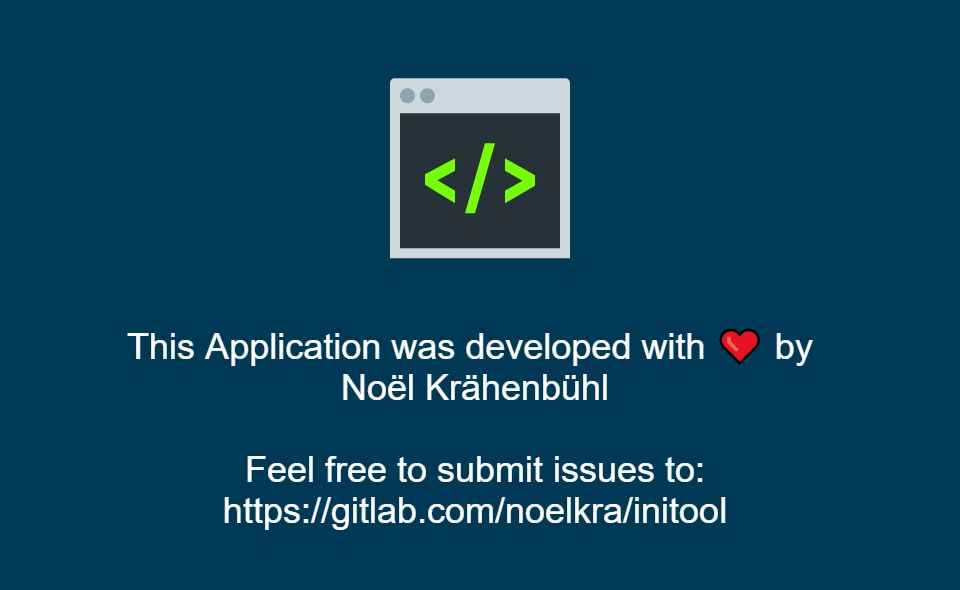
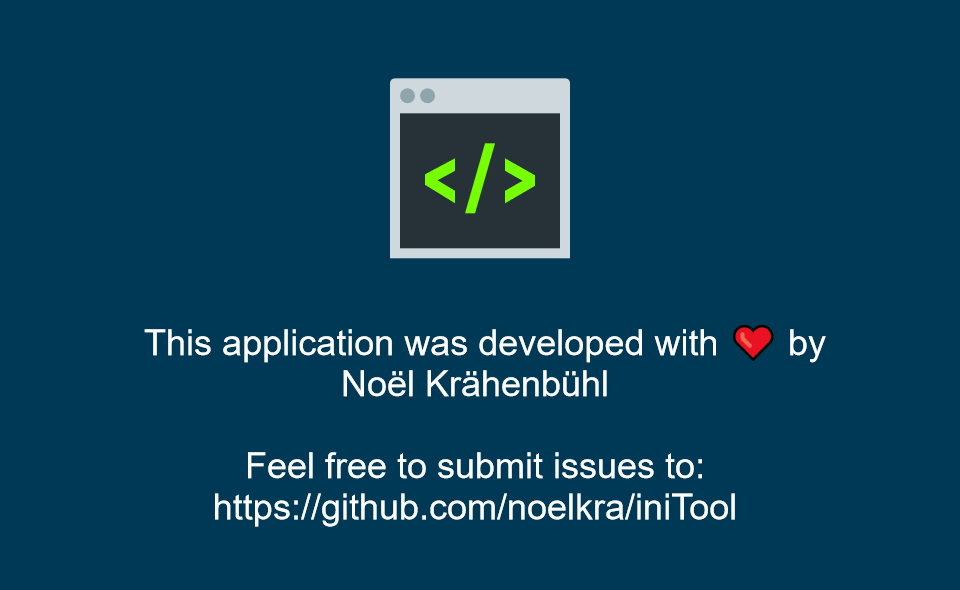
Slight GUI changes
Made some small changes at the GUI and added a new About image with the right link to github

Changed region(s): [[0.2188, 0.7627, 0.7812, 0.9153], [0.125, 0.5492, 0.875, 0.7017]]

diff --git a/iniTool/MainWindow.xaml b/iniTool/MainWindow.xaml
@@ -6,7 +6,7 @@
         xmlns:local="clr-namespace:iniTool"
         xmlns:ed="http://schemas.microsoft.com/expression/2010/drawing" x:Class="iniTool.MainWindow"
         mc:Ignorable="d"
-        Title="iniTool" Height="500" Width="1042.667" Icon="img/master.png" WindowStartupLocation="CenterScreen" MinHeight="500" MinWidth="700" Loaded="Window_Loaded" LostFocus="Window_LostFocus" GotFocus="Window_GotFocus">
+        Title="iniTool" Height="500" Width="1042.667" Icon="img/master.png" WindowStartupLocation="CenterScreen" MinHeight="500" MinWidth="700" Loaded="Window_Loaded">
     <Window.TaskbarItemInfo>
         <TaskbarItemInfo Description="iniTool"/>
     </Window.TaskbarItemInfo>

diff --git a/iniTool/AboutUserControl.xaml b/iniTool/AboutUserControl.xaml
@@ -11,7 +11,7 @@
             <RowDefinition Height="94*"/>
         </Grid.RowDefinitions>
         <TextBlock Margin="140,10,140,0" TextWrapping="Wrap" Grid.Row="1" TextAlignment="Center" FontSize="14" Height="37.24" VerticalAlignment="Top"><Run Text="Licenced under GNU GPLv3."/><LineBreak/><Run Text="Icons by icons8 (www.icons8.com)"/></TextBlock>
-        <Image Height="295" Margin="10,10,10,0" VerticalAlignment="Top" Source="img/info.png"/>
+        <Image Height="295" Margin="10,10,10,0" VerticalAlignment="Top" Source="img/info.png" AutomationProperties.Name="imgAbout"/>
 
     </Grid>
 </UserControl>

diff --git a/iniTool/FlatUIStyles.xaml b/iniTool/FlatUIStyles.xaml
@@ -19,6 +19,8 @@
     <SolidColorBrush x:Key="highlight.orange" Color="#FFFF9B32"/>
     <SolidColorBrush x:Key="highlight.lightgreen" Color="#FFE6E100"/>
     <SolidColorBrush x:Key="highlight.lightblue" Color="#FF87C8F0"/>
+    <SolidColorBrush x:Key="greyscale.eightyfive" Color="#FF262626"/>
+    <SolidColorBrush x:Key="greyscale.fourtyfive" Color="#FF8C8C8C"/>
 
     <!-- Static color brushes -->
     <SolidColorBrush x:Key="Button.Disabled" Color="#FFF4F4F4"/>

diff --git a/iniTool/MainWindow.xaml.cs b/iniTool/MainWindow.xaml.cs
@@ -52,15 +52,5 @@ namespace iniTool
                 resEdit.SetDefaultPreferences();
             }
         }
-
-        private void Window_LostFocus(object sender, RoutedEventArgs e)
-        {
-            
-        }
-
-        private void Window_GotFocus(object sender, RoutedEventArgs e)
-        {
-
-        }
     }
 }
